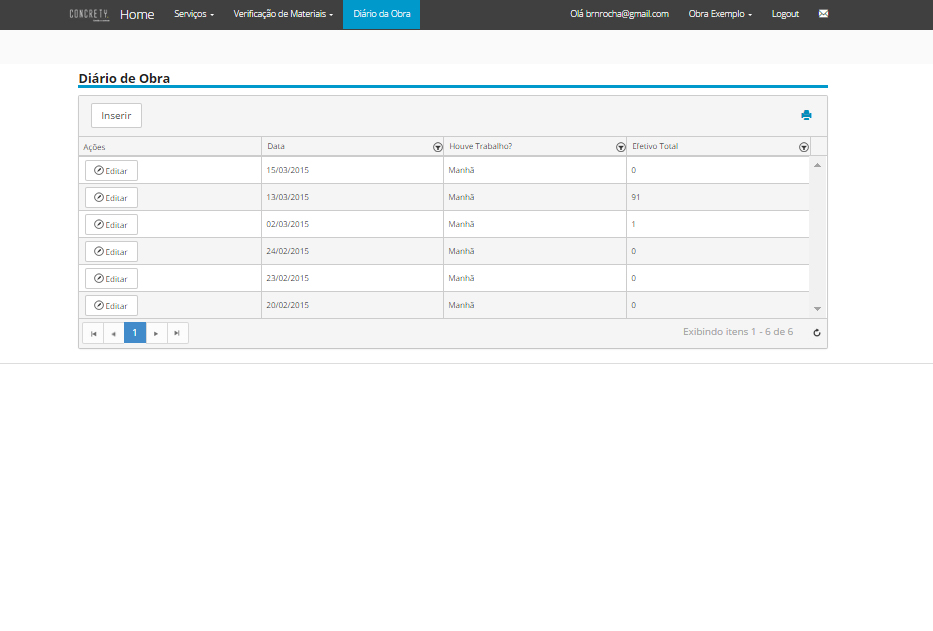
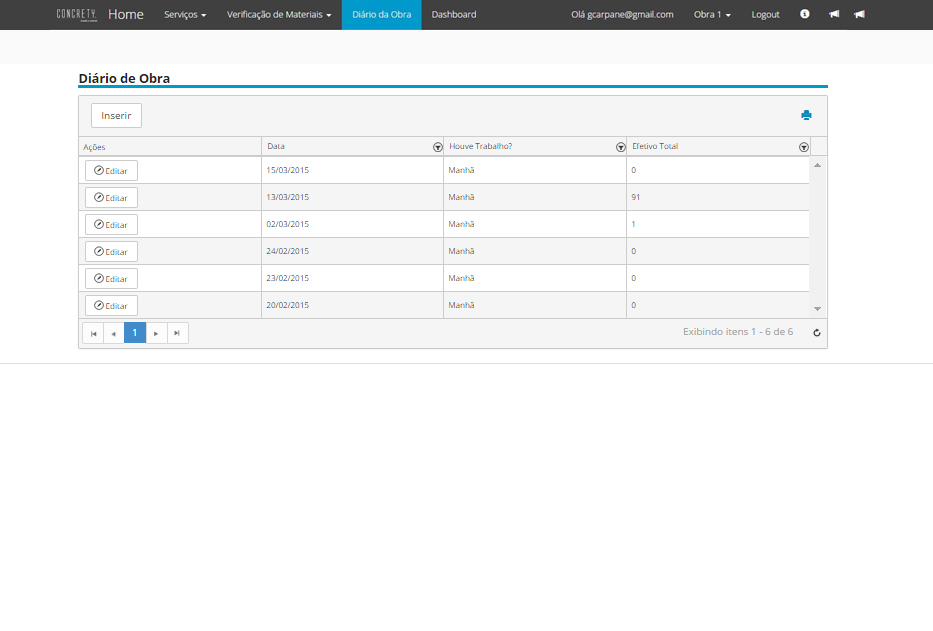
dashboard + correções do help
Gráficos agora estão na página Dashboard.

Changed region(s): [[0.5906, 0.0, 0.9325, 0.0301], [0.2487, 0.0, 0.5284, 0.0301], [0.0622, 0.0, 0.2176, 0.0301]]

diff --git a/Concrety.Web/app/partials/ajuda.html b/Concrety.Web/app/partials/ajuda.html
@@ -40,6 +40,9 @@
                 <li>
                     <a onclick="irdiario()">Diário de Obra</a>
                 </li>
+                <li>
+                    <a onclick="irdashboard()">Dashboard</a>
+                </li>
 
             </ul>
         </nav>
@@ -48,7 +51,7 @@
     <section class="centro">
         <article>
             <div id="txtdescricao">
-                Na home do Concrety, você pode acompanhar quais ocorrências estão em aberto, editá-las, visualizá-las e excluí-las, de acordo com sua necessidade.Os gráficos estarão disponíveis em breve e você poderá acompanhar todas as informações de forma simples e rápida!
+                Na home do Concrety, você pode acompanhar quais ocorrências estão em aberto, editá-las, visualizá-las e excluí-las, de acordo com sua necessidade.
             </div>
             <div id="fundoimagens" style="background-image:url(../../content/help/images/home.jpg);">
             </div>
@@ -59,7 +62,7 @@
     <script type="text/javascript">
 				function irhome(){
 					var home = document.getElementById("fundoimagens").style.backgroundImage = "url('../../content/help/images/home.jpg')";
-					var txthome = document.getElementById("txtdescricao").innerHTML = "Na home do Concrety, você pode acompanhar quais ocorrências estão em aberto, editá-las, visualizá-las e excluí-las, de acordo com sua necessidade.Os gráficos estarão disponíveis em breve e você poderá acompanhar todas as informações de forma simples e rápida!"
+					var txthome = document.getElementById("txtdescricao").innerHTML = "Na home do Concrety, você pode acompanhar quais ocorrências estão em aberto, editá-las, visualizá-las e excluí-las, de acordo com sua necessidade."
 
 				}
 
@@ -112,6 +115,11 @@
 
 				}
 
+				function irdashboard() {
+				    var home = document.getElementById("fundoimagens").style.backgroundImage = "url('../../content/help/images/dashboard.jpg')";
+				    var txtdiario = document.getElementById("txtdescricao").innerHTML = "Os gráficos estarão disponíveis em breve e permitirá uma visão gerencial sobre todos as informações controladas no Concrety. Você poderá acompanhar todas as informações de forma simples e rápida!"
+
+				}
     </script>
 
 </body>

diff --git a/Concrety.Web/app/partials/home.html b/Concrety.Web/app/partials/home.html
@@ -1,11 +1,5 @@
 <div class="row">
     <h3><b>Home</b></h3>
-    <div class="col-md-12">
-        <h4 class="h4_titulo"><b>Visão macro</b></h4>
-    </div>
-        <div class="col-md-4"><img style="max-width:360px;" class="img_teste" src="../../content/css/Default/grafico1_teste.png" /></div>
-        <div class="col-md-4"><img style="max-width:360px;" class="img_teste" src="../../content/css/Default/grafico2_teste.png" /></div>
-        <div class="col-md-4"><img style="max-width:360px;" class="img_teste" src="../../content/css/Default/grafico3_teste.png" /></div>
     <div class="col-md-12" style="padding-top:15px;">
         <h4 class="h4_titulo"><b>Ocorrências em Aberto</b></h4>
         <div id="grid_ocorrencias" kendo-grid k-options="ocorrenciasGridOptions"

diff --git a/Concrety.Web/index.html b/Concrety.Web/index.html
@@ -39,7 +39,6 @@
                             </li>
                         </ul>
                     </li>
-
                     <li class="dropdown" dropdown>
                         <a role="button" class="dropdown-toggle" dropdown-toggle aria-haspopup="true" aria-expanded="false">
                             Verificação de Materiais <b class="caret"></b>
@@ -50,9 +49,11 @@
                             </li>
                         </ul>
                     </li>
-
                     <li>
                         <a href="#/diarioObra">Diário da Obra</a>
+                    </li>
+                    <li>
+                        <a href="#/dashboard">Dashboard</a>
                     </li>
                 </ul>
 

diff --git a/Concrety.Web/app/partials/dashboard.html b/Concrety.Web/app/partials/dashboard.html
@@ -1,0 +1,6 @@
+<div class="row">
+    <h4 class="h4_titulo"><b>Dashboard - Visão Gerencial</b></h4>
+    <div class="col-md-4"><img style="max-width:360px;" class="img_teste" src="../../content/css/Default/grafico1_teste.png" /></div>
+    <div class="col-md-4"><img style="max-width:360px;" class="img_teste" src="../../content/css/Default/grafico2_teste.png" /></div>
+    <div class="col-md-4"><img style="max-width:360px;" class="img_teste" src="../../content/css/Default/grafico3_teste.png" /></div>
+</div>

diff --git a/Concrety.Web/app/controllers/dashboardController.js b/Concrety.Web/app/controllers/dashboardController.js
@@ -1,0 +1,20 @@
+'use strict';
+app.controller('dashboardController', function ($scope, $location, $modal, authService, accountService, ocorrenciasService) {
+
+    if (!authService.authentication.isAuth) {
+        $location.path('/login');
+    }
+
+    configurarGraficos();
+ 
+    function configurarGraficos() {
+
+        configurarGraficoCondicoesClimaticas();
+
+    }
+
+    function configurarGraficoCondicoesClimaticas() {
+
+    }
+
+});

diff --git a/Concrety.Web/app/app.js b/Concrety.Web/app/app.js
@@ -17,6 +17,11 @@ app.config(function ($routeProvider) {
         templateUrl: "/app/partials/diarioObra.html"
     });
 
+    $routeProvider.when("/dashboard", {
+        controller: "dashboardController",
+        templateUrl: "/app/partials/dashboard.html"
+    });
+
     $routeProvider.when("/servicos/:id", {
         controller: "servicosController",
         templateUrl: "/app/partials/servicos.html"

diff --git a/Concrety.Web/content/help/css/style.css b/Concrety.Web/content/help/css/style.css
@@ -24,7 +24,7 @@ body{
 
 .esq ul li{
 	display: block;		
-	margin: 25px 0 25px 0;
+	margin: 10px 0 10px 0;
 	cursor: pointer;
 }
 
